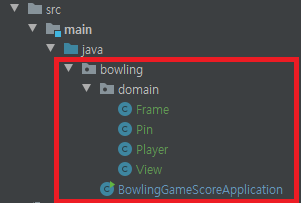
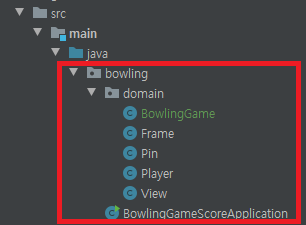
doc: 게임의 흐름을 책임질 클래스 추가

Changed region(s): [[0.0299, 0.0, 1.0, 1.0]]

diff --git a/OOP/객체지향연습하기-자바-2/README.md b/OOP/객체지향연습하기-자바-2/README.md
@@ -93,19 +93,13 @@ _발그림... 죄송합니다_
 
 **domain** 이라는 패키지 안에 
 
-**Frame, Pin, Player, View 클래스** 가 있습니다.
+**Frame, Pin, Player, View, BowlingGame 클래스** 가 있습니다.
+
+**BowlingGame 클래스** 실제로 볼링 게임을 실행시키고, 
+
+게임의 흐름을 담당하게되는 클래스입니다.
 
 **BowlingGameScoreApplication**은 볼링 게임 점수판 프로젝트의 시작인 Main클래스입니다.
-
-먼저 플레이어는 **한 프레임에서 두번의 투구를 할 수 있습니다.**
-
-저는 프레임을 통해서 플레이어가 투구를 하고, 핀을 넘어뜨리는 과정을 생각했습니다.
-
-또한 프레임은 매번 핀의 상태를 알아야합니다.
-
-그래서 **프레임과 볼링핀 사이에는 연관관계가 존재합니다.**
-
-지금은 이렇게 연관 관계가 있다는 것만 알아두고, 객체간의 메시지 전달에 집중하겠습니다.
 
 어떠한 객체가 메시지를 수신할 수 있다는 뜻은 그 객체의 인터페이스를 통하여 그 객체에 접근할 수 있다는 뜻입니다.
 
